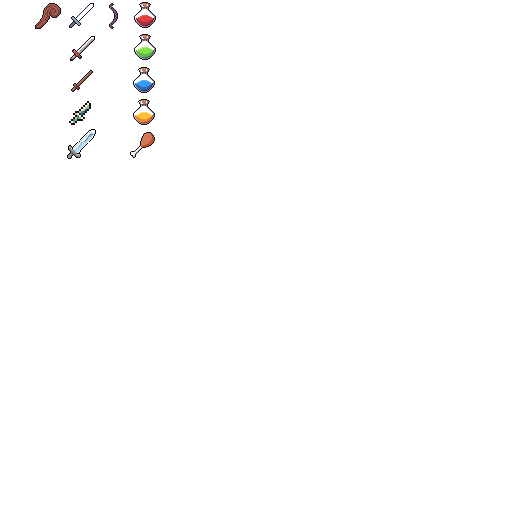
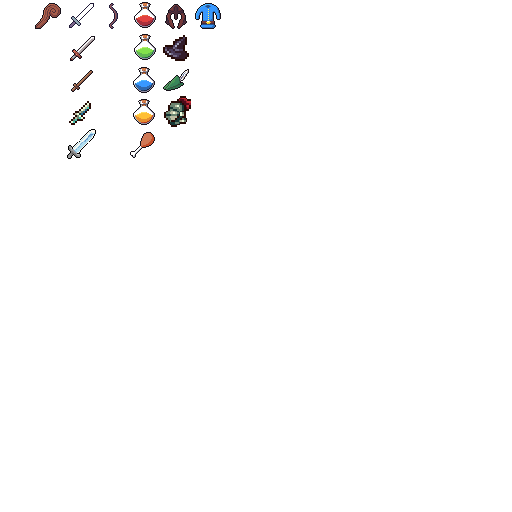
0.8.3162

Changed region(s): [[0.3125, 0.0, 0.4375, 0.25]]

diff --git a/amulet_flutter/lib/gamestream/isometric/atlases/atlas_src_amulet_item.dart b/amulet_flutter/lib/gamestream/isometric/atlases/atlas_src_amulet_item.dart
@@ -1,10 +1,17 @@
 import 'package:amulet_engine/packages/isometric_engine/packages/common/src/amulet/amulet_item.dart';
 
+const _weapon_staff = 32.0;
 const _weapon_sword = 64.0;
 const _weapon_bow = 96.0;
 const _consumable = 128.0;
+const _helm = 160.0;
+const _armor = 192.0;
+const _shoes = 224.0;
 
 const atlasSrcAmuletItem = <AmuletItem, List<double>> {
+  AmuletItem.Weapon_Staff_1_5_Common: [_weapon_staff, 0],
+  AmuletItem.Weapon_Staff_1_5_Rare: [_weapon_staff, 0],
+  AmuletItem.Weapon_Staff_1_5_Legendary: [_weapon_staff, 0],
   AmuletItem.Weapon_Sword_1_5_Common: [_weapon_sword, 0],
   AmuletItem.Weapon_Sword_1_5_Rare: [_weapon_sword, 0],
   AmuletItem.Weapon_Sword_1_5_Legendary: [_weapon_sword, 0],
@@ -13,4 +20,20 @@ const atlasSrcAmuletItem = <AmuletItem, List<double>> {
   AmuletItem.Weapon_Bow_1_5_Legendary: [_weapon_bow, 0],
   AmuletItem.Consumable_Potion_Health: [_consumable, 32],
   AmuletItem.Consumable_Potion_Magic: [_consumable, 64],
+  AmuletItem.Helm_Warrior_1_5_Common: [_helm, 0],
+  AmuletItem.Helm_Wizard_1_5_Common: [_helm, 32],
+  AmuletItem.Helm_Rogue_1_5_Common: [_helm, 64],
+  AmuletItem.Armor_Neutral_1_5_Common: [_armor, 0],
+  AmuletItem.Armor_Rogue_1_5_Common: [_armor, 32],
+  AmuletItem.Armor_Rogue_1_5_Rare: [_armor, 32],
+  AmuletItem.Armor_Rogue_1_5_Legendary: [_armor, 32],
+  AmuletItem.Armor_Warrior_1_5_Common: [_armor, 64],
+  AmuletItem.Armor_Warrior_1_5_Rare: [_armor, 64],
+  AmuletItem.Armor_Warrior_1_5_Legendary: [_armor, 64],
+  AmuletItem.Armor_Wizard_1_5_Common: [_armor, 96],
+  AmuletItem.Armor_Wizard_1_5_Rare: [_armor, 96],
+  AmuletItem.Armor_Wizard_1_5_Legendary: [_armor, 96],
+  AmuletItem.Shoes_Rogue_1_5_Common: [_shoes, 0],
+  AmuletItem.Shoes_Warrior_1_5_Common: [_shoes, 32],
+  AmuletItem.Shoes_Wizard_1_5_Common: [_shoes, 0],
 };

diff --git a/amulet_flutter/lib/amulet/ui/widgets/mmo_item_image.dart b/amulet_flutter/lib/amulet/ui/widgets/mmo_item_image.dart
@@ -48,17 +48,31 @@ class WatchAmuletItem extends StatelessWidget {
   WatchAmuletItem(this.watch);
 
   @override
-  Widget build(BuildContext context) =>
-      WatchBuilder(watch,
-              (t) => t == null ? nothing : AmuletItemImage(amuletItem: t)
-      );
+  Widget build(BuildContext context) {
+    const size = 50.0;
+    return Container(
+      alignment: Alignment.center,
+      color: Colors.white12,
+      padding: const EdgeInsets.all(2),
+      child: Container(
+          alignment: Alignment.center,
+          color: Colors.black12,
+          padding: const EdgeInsets.all(2),
+          child: WatchBuilder(watch,
+                  (t) => t == null ? nothing : AmuletItemImage(amuletItem: t, scale: size / 32,)
+          ),
+        ),
+    );
+  }
 }
 
 class AmuletItemImage extends StatelessWidget {
+  final double scale;
   final AmuletItem amuletItem;
 
   AmuletItemImage({
     required this.amuletItem,
+    required this.scale,
   });
 
   @override
@@ -72,7 +86,7 @@ class AmuletItemImage extends StatelessWidget {
               srcY: src[1],
               srcWidth: 32,
               srcHeight: 32,
-              scale: 1.0,
+              scale: scale,
             );
           }
         );

diff --git a/amulet_flutter/lib/amulet/amulet_ui.dart b/amulet_flutter/lib/amulet/amulet_ui.dart
@@ -316,7 +316,7 @@ class AmuletUI {
           crossAxisAlignment: CrossAxisAlignment.start,
           children: [
             buildRow('', buildText('current', color: Colors.white54, italic: true), null),
-            buildRow('',  AmuletItemImage(amuletItem: current), target == null ? nothing : AmuletItemImage(amuletItem: target)),
+            buildRow('',  AmuletItemImage(amuletItem: current, scale: 1.0), target == null ? nothing : AmuletItemImage(amuletItem: target, scale: 1.0)),
             buildRow('',
                 buildText(current.label, color: mapItemQualityToColor(current.quality)),
                 target == null ? null : buildText(target.label, color: mapItemQualityToColor(target.quality)),
@@ -614,8 +614,11 @@ class AmuletUI {
             Row(
               children: [
                 WatchAmuletItem(amulet.equippedWeapon),
+                width6,
                 WatchAmuletItem(amulet.equippedHelm),
+                width6,
                 WatchAmuletItem(amulet.equippedBody),
+                width6,
                 WatchAmuletItem(amulet.equippedShoes),
               ],
             ),

diff --git a/amulet_flutter/lib/website/website_ui.dart b/amulet_flutter/lib/website/website_ui.dart
@@ -212,13 +212,13 @@ extension WebsiteUI on WebsiteGame {
                           children: [
                             buildText(character['name'], size: 22),
                             if (weapon != null)
-                              AmuletItemImage(amuletItem: weapon),
+                              AmuletItemImage(amuletItem: weapon, scale: 1.0),
                             if (helm != null)
-                              AmuletItemImage(amuletItem: helm),
+                              AmuletItemImage(amuletItem: helm, scale: 1.0),
                             if (armour != null)
-                              AmuletItemImage(amuletItem: armour),
+                              AmuletItemImage(amuletItem: armour, scale: 1.0),
                             if (shoes != null)
-                              AmuletItemImage(amuletItem: shoes),
+                              AmuletItemImage(amuletItem: shoes, scale: 1.0),
                           ],
                         )),
                   ),
